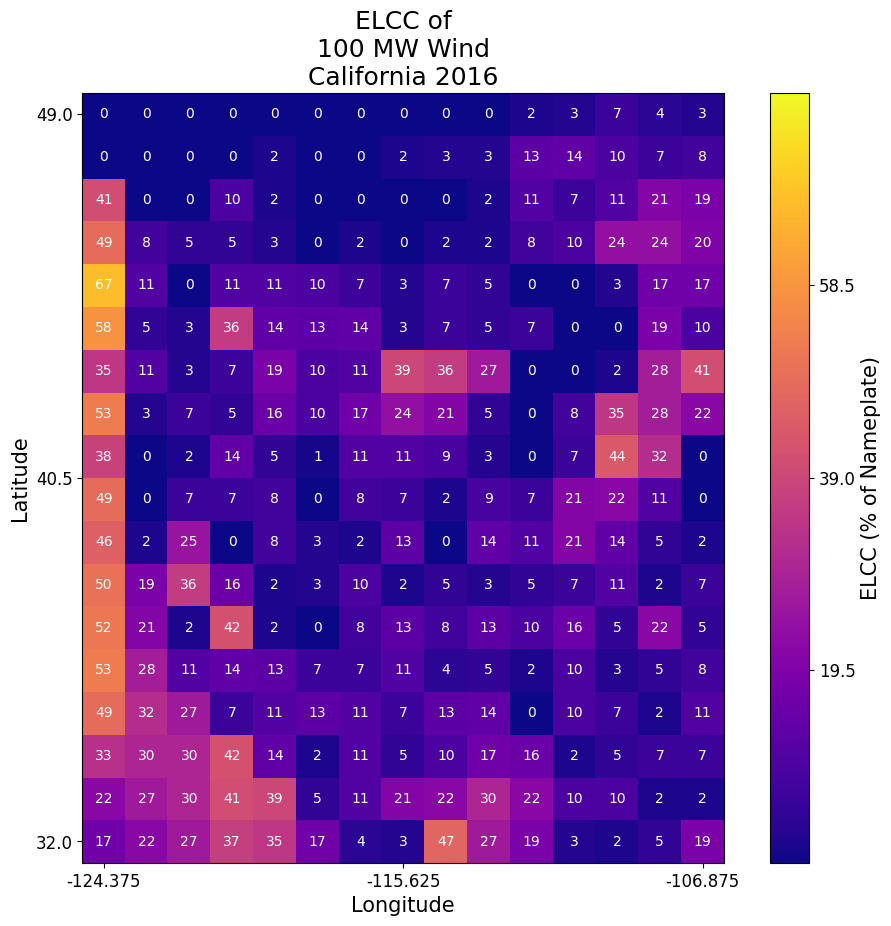
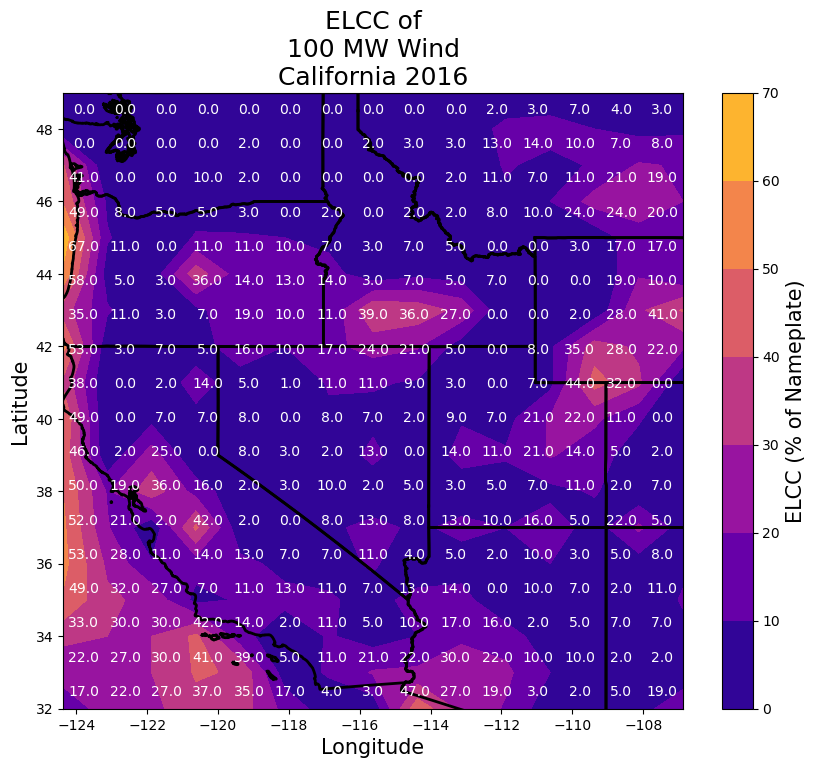
Quick Clean

diff --git a/plot_map.py b/plot_map.py
@@ -140,10 +140,9 @@ def main():
     region = "california"
     year = '2016'
     results_directory = region+'/'+year+'/'
-    results_filename = results_directory + "1_GW_Solar_results.csv"
-    img_filename = results_directory+'map_1_GW_Solar'
-    descriptor = '1 GW Solar'
-
+    results_filename = results_directory + "1_GW_Wind_results.csv"
+    img_filename = results_directory+'map_1_GW_Wind'
+    descriptor = '1 GW Wind'
     '''
     region = sys.argv[1]
     year = sys.argv[2]

diff --git a/plot_delta_map.py b/plot_delta_map.py
@@ -108,6 +108,7 @@ biggest_diff = np.maximum(abs(max_elcc),abs(min_elcc))
 biggest_diff = np.maximum(biggest_diff,15)
 
 divnorm = colors.TwoSlopeNorm(vmin=-1*abs(biggest_diff), vcenter=0, vmax=abs(biggest_diff))
+
 ##############
 #CHANGE FOR CONTOUR OR REGULAR HEATMAP WITH SQUARES comment out whichever plot you dont want!!
 
